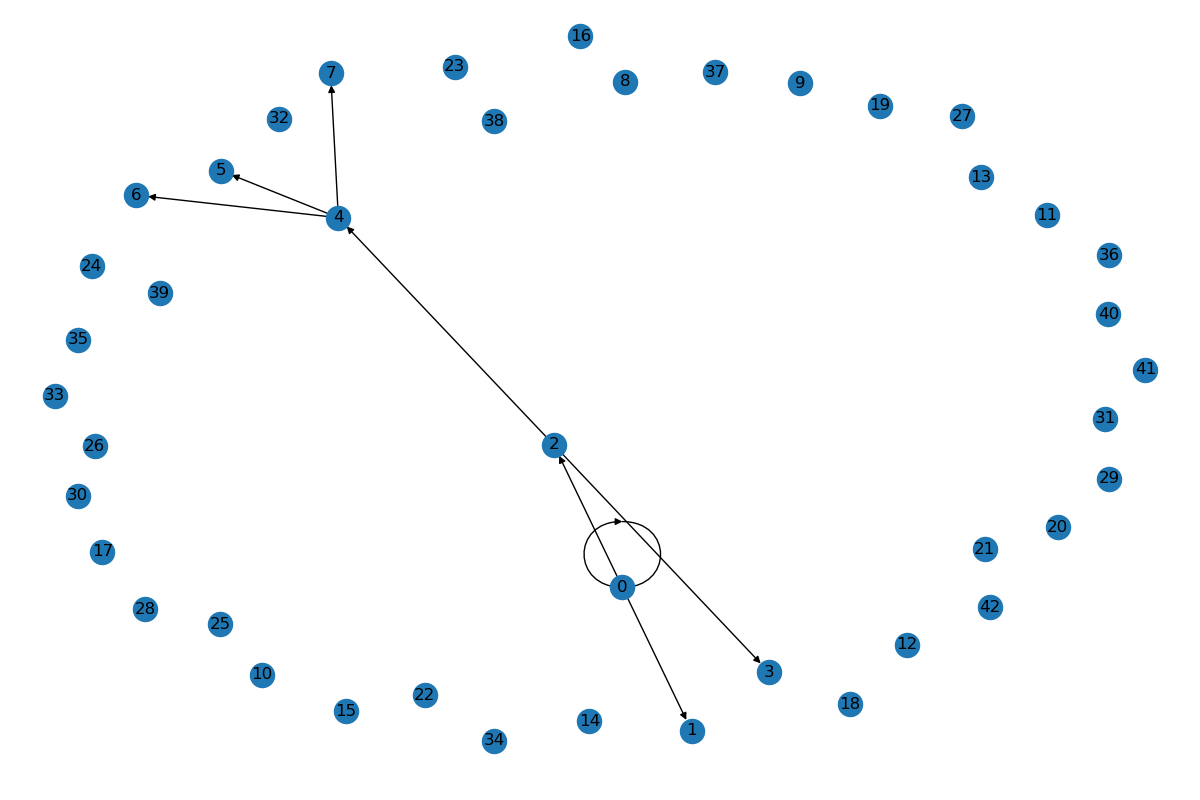
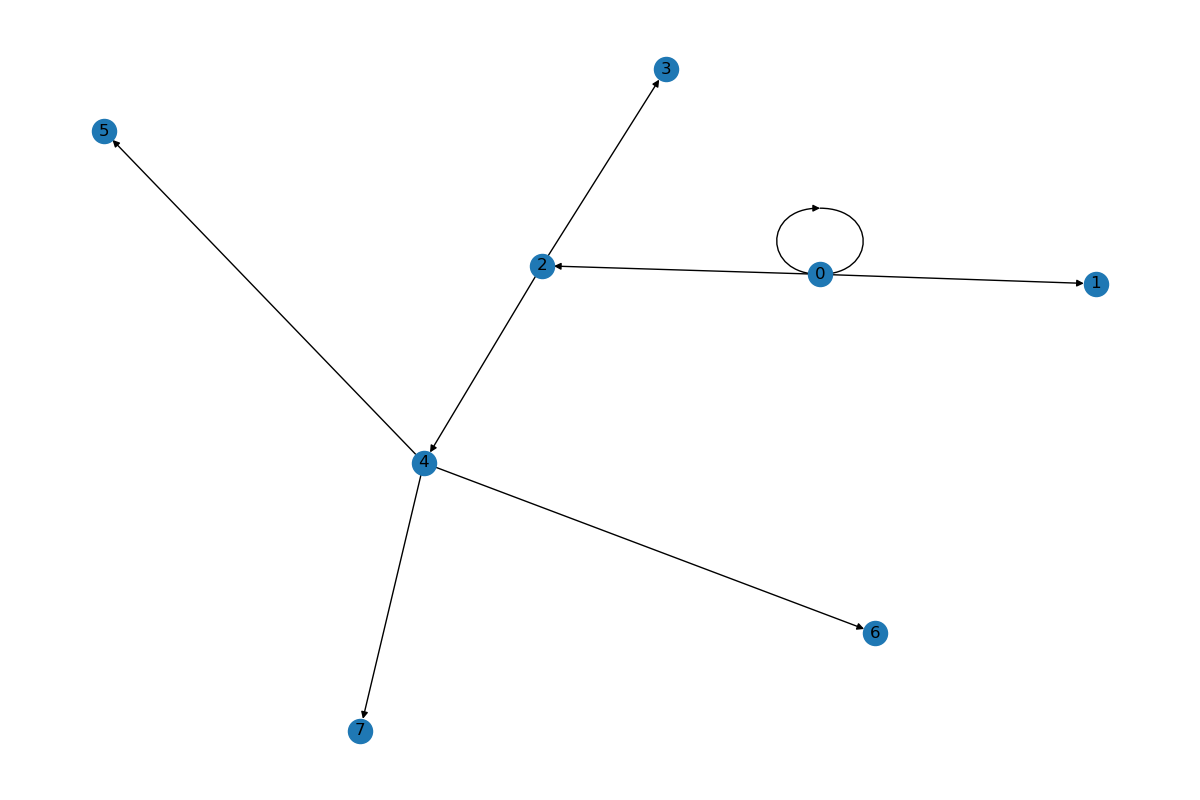
visualize dep graph ii

diff --git a/src/demo.py b/src/demo.py
@@ -4,24 +4,26 @@ import networkx as nx
 def main():
     sentence = "What is the airspeed of an unladen swallow?"
     dependencies = [("ROOT", (0, 0)), ("cop", (1, 0)), ("nsubj", (2, 0)), ("det", (3, 2)), ("dep", (4, 2)), ("case", (5, 4)), ("det", (6, 4)), ("amod", (7, 4))]
-    visualize_dependencies(sentence, dependencies)
+    # visualize_dependencies(sentence, dependencies)
+    vis2(dependencies)
 
 
+def vis2(dependencies):
+    # Build the graph using the dependencies
+    G = nx.Graph()
+    for dependency in dependencies:
+        G.add_edge(dependency[0][0], dependency[1][0], label=dependency[0][1])
 
-# def visualize_dependencies(dependencies, sentence, root_word):
-#     graph = nx.DiGraph()
-#     graph.add_node(root_word, pos=(0,0))
-    
-#     for dependency in dependencies:
-#         graph.add_node(dependency[2], pos=(1, dependencies.index(dependency)))
-#         graph.add_edge(dependency[0], dependency[2])
-    
-#     pos = nx.get_node_attributes(graph, 'pos')
-#     nx.draw(graph, pos)
-#     labels = nx.get_edge_attributes(graph, 'weight')
-#     nx.draw_networkx_edge_labels(graph, pos, edge_labels=labels)
-#     plt.show()
+    # Draw the graph
+    pos = nx.spring_layout(G)
+    nx.draw(G, pos)
 
+    # Add labels to the edges
+    labels = nx.get_edge_attributes(G, 'label')
+    nx.draw_networkx_edge_labels(G, pos, edge_labels=labels)
+
+    # Save the image
+    plt.savefig('../output/dependencies2.png')
 
 def visualize_dependencies(sentence, dependencies):
     # Create a directed graph

diff --git a/src/demo2.py b/src/demo2.py
@@ -1,0 +1,28 @@
+import matplotlib.pyplot as plt
+import networkx as nx
+
+def main():
+    sentence = "What is the airspeed of an unladen swallow?"
+    dependencies = [("ROOT", (0, 0)), ("cop", (1, 0)), ("nsubj", (2, 0)), ("det", (3, 2)), ("dep", (4, 2)), ("case", (5, 4)), ("det", (6, 4)), ("amod", (7, 4))]
+    visualize_dependencies(dependencies, sentence)
+
+def visualize_dependencies(dependencies, sentence):
+    # Create a directed graph
+    graph = nx.DiGraph()
+
+    # Add nodes and edges to the graph
+    for i, word in enumerate(sentence.split()):
+        graph.add_node(i, label=word)
+    for label, (dependent, head) in dependencies:
+        graph.add_edge(head, dependent, label=label)
+
+    # Use the spring layout for the graph
+    pos = nx.spring_layout(graph)
+
+    # Draw the graph and save it to an image
+    plt.figure(figsize=(12, 8))
+    nx.draw(graph, pos, with_labels=True, arrows=True)
+    plt.savefig("../output/dependencies3.png")
+
+if __name__ == '__main__':
+    main()
